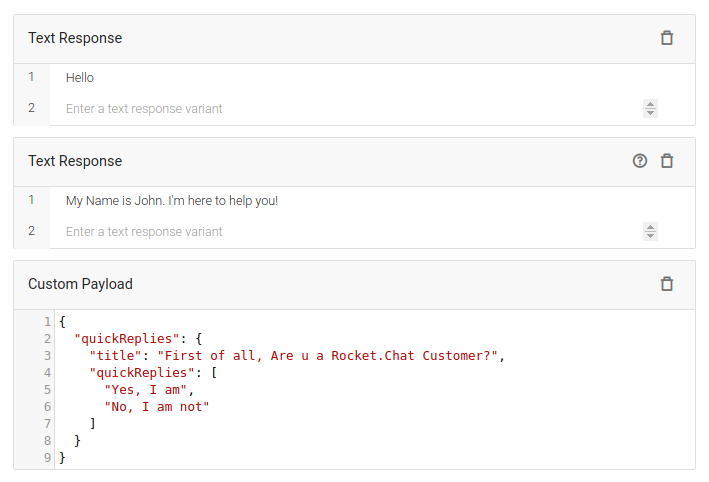
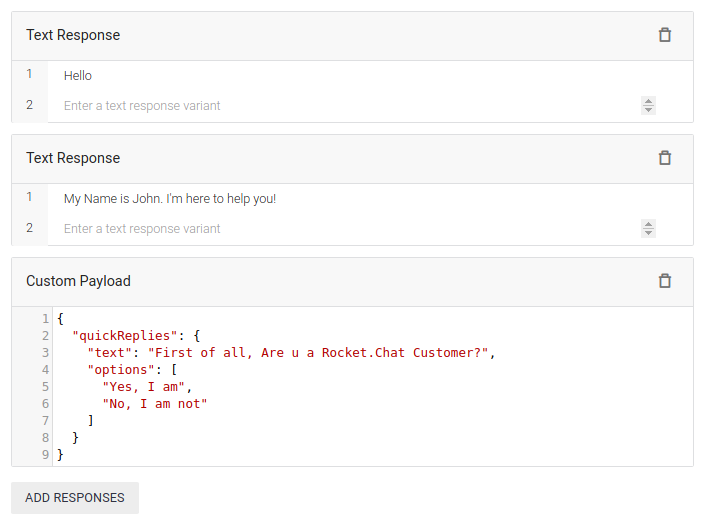
modified QuickReplies Interface

diff --git a/lib/Message.ts b/lib/Message.ts
@@ -8,11 +8,11 @@ export const createDialogflowMessage = async (rid: string, read: IRead,  modify:
     const { messages = [] } = dialogflowMessage;
 
     for (const message of messages) {
-        const { title, quickReplies } = message as IDialogflowQuickReplies;
+        const { text, options } = message as IDialogflowQuickReplies;
 
-        if (title && quickReplies) {
+        if (text && options) {
             // message is instanceof IDialogflowQuickReplies
-            const actions: Array<IMessageAction> = quickReplies.map((payload: string) => ({
+            const actions: Array<IMessageAction> = options.map((payload: string) => ({
                 type: MessageActionType.BUTTON,
                 text: payload,
                 msg: payload,
@@ -20,7 +20,7 @@ export const createDialogflowMessage = async (rid: string, read: IRead,  modify:
                 msg_processing_type: MessageProcessingType.SendMessage,
             } as IMessageAction));
             const attachment: IMessageAttachment = { actions };
-            await createMessage(rid, read, modify, { text: title, attachment });
+            await createMessage(rid, read, modify, { text, attachment });
         } else {
             // message is instanceof string
             await createMessage(rid, read, modify, { text: message });

diff --git a/lib/Dialogflow.ts b/lib/Dialogflow.ts
@@ -84,8 +84,8 @@ class DialogflowClass {
                     messages.push(textMessageArray[0]);
                 }
                 if (quickReplies) {
-                    const { title, quickReplies: quickRepliesArray } = quickReplies;
-                    if (title && quickRepliesArray) {
+                    const { text: optionsText, options } = quickReplies;
+                    if (optionsText && options) {
                         messages.push(quickReplies);
                     }
                 }

diff --git a/enum/Dialogflow.ts b/enum/Dialogflow.ts
@@ -5,8 +5,8 @@ export interface IDialogflowMessage {
 }
 
 export interface IDialogflowQuickReplies {
-    title: string;
-    quickReplies: Array<string>;
+    text: string;
+    options: Array<string>;
 }
 
 export interface IDialogflowAccessToken {

diff --git a/docs/QuickReplies.md b/docs/QuickReplies.md
@@ -2,8 +2,8 @@
 ```
 {
   "quickReplies": {
-    "title": string,
-    "quickReplies": [
+    "text": string,
+    "options": [
       string
     ]
   }
@@ -12,18 +12,23 @@
 
 ### Field description
 
-1. `title`
+1. `text`
 
 - **Type**: string
 - **Description**:  The title of the collection of quick replies
 
-2. `quickReplies[]`
+2. `options[]`
 - **Type**: Array of string
 - **Description**:  The collection of quick replies.
 
 ### Example
+
 In this example, there are 2 simple text messages and one `quickReply` message
-#### Dialogflow Dashboard 
+
+#### Dialogflow Dashboard
+
 ![image](./images/QuickRepliesDialogflowDashboard.png)
+
 #### Corresponding Livechat widget
+
 ![image](./images/QuickRepliesLivechatWidget.png)
